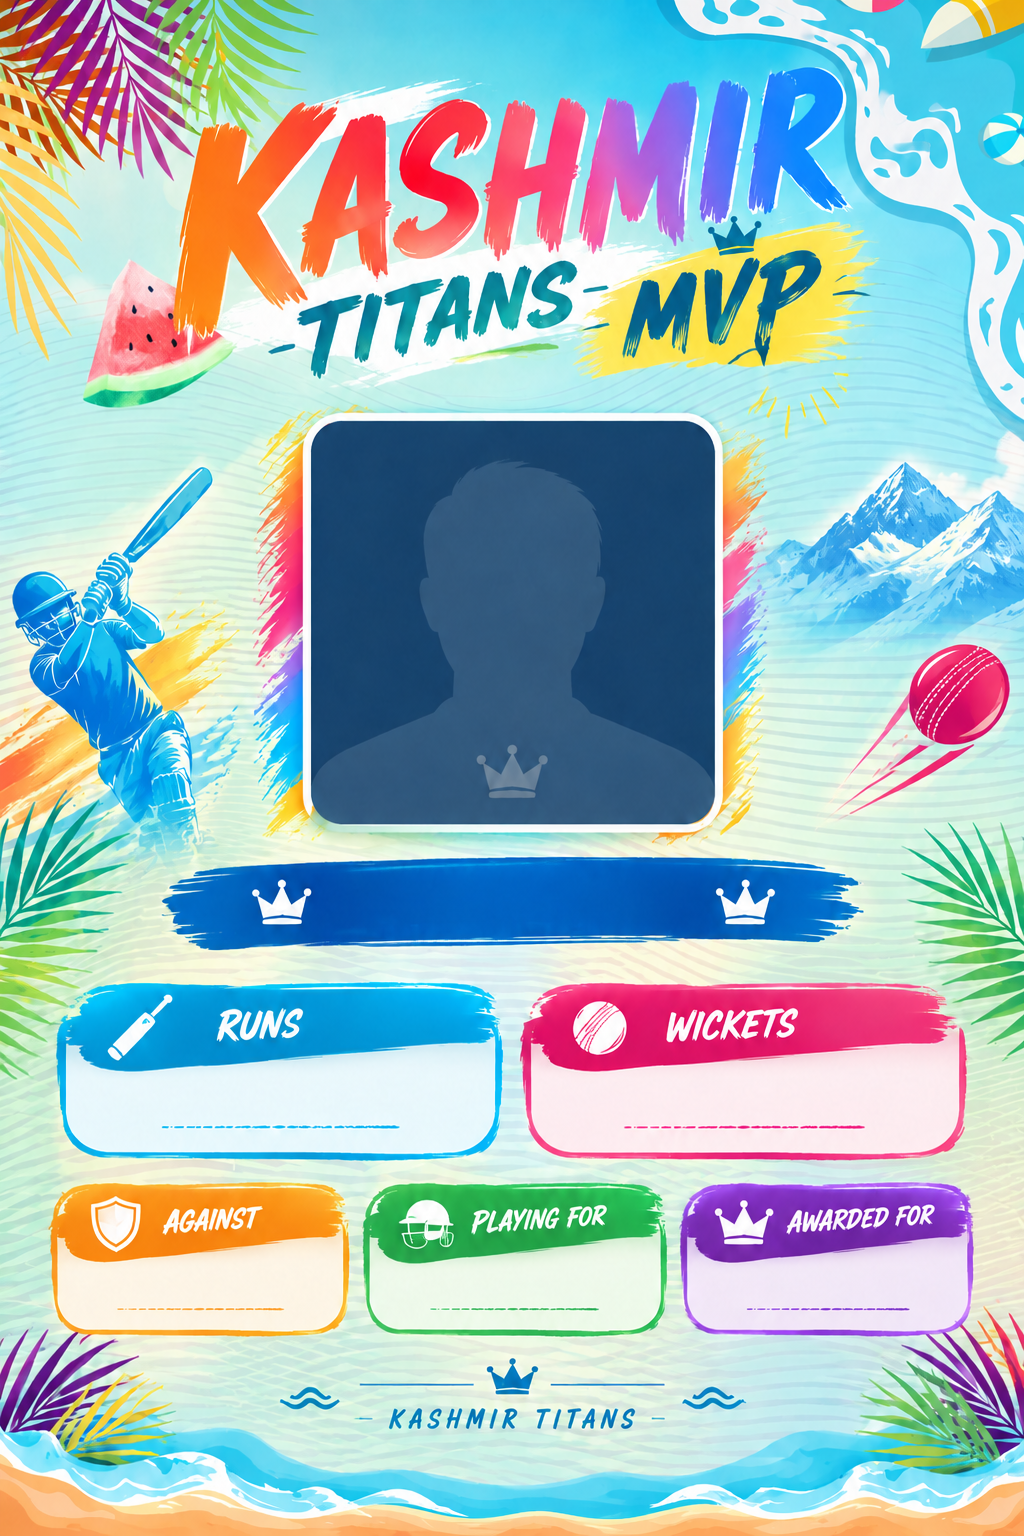
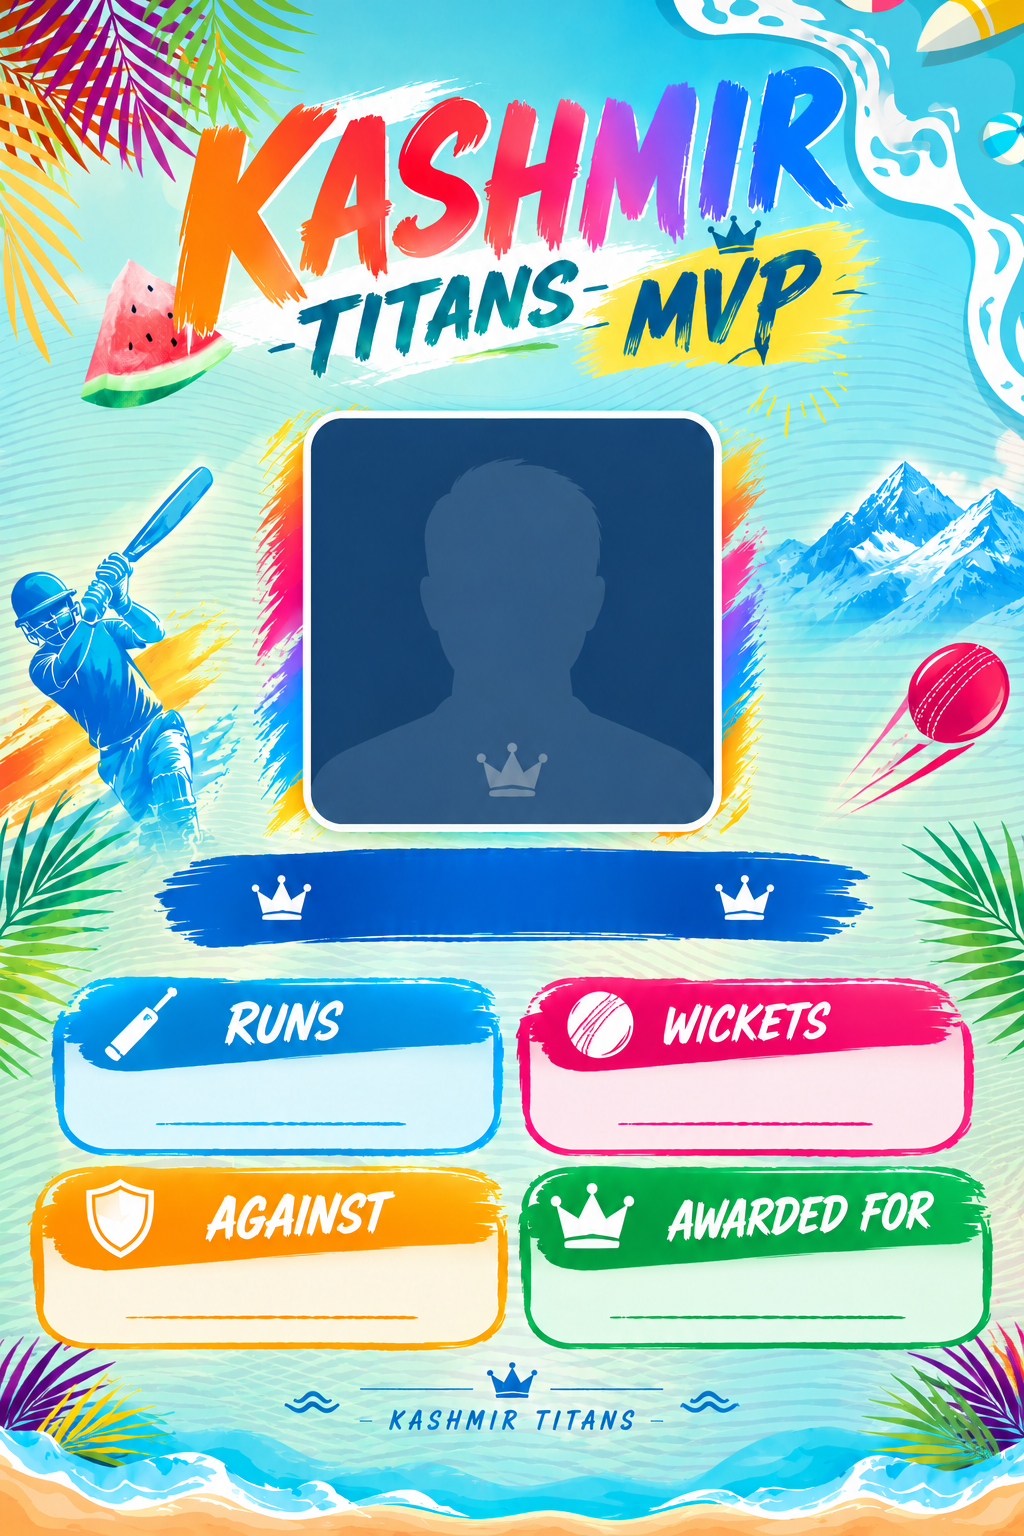
a

diff --git a/cogs/mvp.py b/cogs/mvp.py
@@ -14,25 +14,31 @@ from PIL import Image, ImageDraw, ImageFont, ImageOps
 BACKGROUND_PATH = Path(__file__).with_name("mvp_background.png")
 
 # Coordinates are designed for the supplied 1024 x 1536 Kashmir Titans banner.
-NAME_BOX = (170, 864, 854, 946)
-AVATAR_BOX = (405, 456, 619, 670)
+# Coordinates for the updated tropical MVP background (1024 x 1536).
+NAME_BOX = (300, 855, 724, 895)
+PLAYING_FOR_BOX = (300, 895, 724, 931)
+AVATAR_BOX = (305, 420, 719, 830)
+# Values sit on the template's dotted underline in each information box.
 VALUE_BOXES = {
-    "runs": (80, 1070, 480, 1147),
-    "wickets": (542, 1070, 942, 1147),
-    "against": (76, 1240, 327, 1320),
-    "playing for": (391, 1240, 640, 1320),
-    "awarded for": (704, 1240, 953, 1320),
+    "runs": (65, 1080, 492, 1140),
+    "wickets": (530, 1080, 959, 1140),
+    "against": (45, 1270, 500, 1340),
+    "awarded for": (520, 1270, 979, 1340),
 }
 
 
 def _font(size: int, bold: bool = True) -> ImageFont.FreeTypeFont | ImageFont.ImageFont:
-    candidates = []
-    if os.name == "nt":
-        candidates += [r"C:\Windows\Fonts\arialbd.ttf" if bold else r"C:\Windows\Fonts\arial.ttf"]
-    candidates += [
-        "/usr/share/fonts/truetype/dejavu/DejaVuSans-Bold.ttf" if bold else "/usr/share/fonts/truetype/dejavu/DejaVuSans.ttf",
-        "/usr/share/fonts/truetype/liberation2/LiberationSans-Bold.ttf" if bold else "/usr/share/fonts/truetype/liberation2/LiberationSans-Regular.ttf",
+    # Heavy italic lettering is the closest available match to the poster's brush-style labels.
+    candidates = [
+        "/usr/share/fonts/truetype/lato/Lato-HeavyItalic.ttf",
+        "/usr/share/fonts/truetype/lato/Lato-BoldItalic.ttf",
+        "/usr/share/fonts/truetype/dejavu/DejaVuSans-BoldOblique.ttf",
+    ] if bold else [
+        "/usr/share/fonts/truetype/lato/Lato-MediumItalic.ttf",
+        "/usr/share/fonts/truetype/dejavu/DejaVuSans-Oblique.ttf",
     ]
+    if os.name == "nt":
+        candidates += [r"C:\Windows\Fonts\arialbi.ttf" if bold else r"C:\Windows\Fonts\ariali.ttf"]
     for path in candidates:
         try:
             return ImageFont.truetype(path, size=size)
@@ -52,9 +58,11 @@ def _fit_font(draw: ImageDraw.ImageDraw, text: str, max_width: int, max_height: 
 
 
 def _draw_centered(draw: ImageDraw.ImageDraw, box: tuple[int, int, int, int], text: str,
-                   color: tuple[int, int, int], start_size: int, min_size: int = 16) -> None:
+                   color: tuple[int, int, int], start_size: int, min_size: int = 16, bold: bool = True) -> None:
     x1, y1, x2, y2 = box
     font = _fit_font(draw, text, x2 - x1 - 22, y2 - y1 - 8, start_size, min_size)
+    # Use the matching italic family for category values as well.
+    font = _font(getattr(font, "size", start_size), bold=bold)
     bbox = draw.textbbox((0, 0), text, font=font, stroke_width=1)
     w, h = bbox[2] - bbox[0], bbox[3] - bbox[1]
     x = x1 + ((x2 - x1) - w) / 2 - bbox[0]
@@ -119,20 +127,23 @@ class MVP(commands.Cog):
                 return member
         return None
 
-    async def _make_banner(self, name: str, values: dict[str, str], member: Optional[discord.Member]) -> io.BytesIO:
+    async def _make_banner(self, name: str, values: dict[str, str], member: Optional[discord.Member], custom_avatar: Optional[bytes] = None) -> io.BytesIO:
         if not BACKGROUND_PATH.exists():
             raise FileNotFoundError(f"Background image not found: {BACKGROUND_PATH}")
 
         image = Image.open(BACKGROUND_PATH).convert("RGBA")
         draw = ImageDraw.Draw(image, "RGBA")
 
-        # Place the player's name in the blue name strip.
-        _draw_centered(draw, NAME_BOX, name, (255, 255, 255), 48, 22)
+        # Player name and playing-for text share the center of the blue strip.
+        _draw_centered(draw, NAME_BOX, name, (255, 255, 255), 34, 18)
+        _draw_centered(draw, PLAYING_FOR_BOX, f"PLAYING FOR: {values['playing for']}", (255, 255, 255), 19, 12)
 
-        # Overlay a rounded avatar crop in the central portrait area when a Discord member was found.
-        if member is not None:
+        # Prefer the image sent in the final prompt; otherwise use the matched Discord member avatar.
+        if custom_avatar is not None or member is not None:
             try:
-                avatar_bytes = await member.display_avatar.replace(size=256, static_format="png").read()
+                avatar_bytes = custom_avatar
+                if avatar_bytes is None and member is not None:
+                    avatar_bytes = await member.display_avatar.replace(size=256, static_format="png").read()
                 avatar = Image.open(io.BytesIO(avatar_bytes)).convert("RGBA")
                 x1, y1, x2, y2 = AVATAR_BOX
                 target_size = (x2 - x1, y2 - y1)
@@ -151,11 +162,10 @@ class MVP(commands.Cog):
             "runs": (0, 126, 190),
             "wickets": (222, 26, 91),
             "against": (209, 112, 0),
-            "playing for": (13, 145, 69),
-            "awarded for": (112, 35, 174),
+            "awarded for": (13, 145, 69),
         }
-        for key, value in values.items():
-            _draw_centered(draw, VALUE_BOXES[key], value, colors[key], 38 if key in ("runs", "wickets") else 28, 15)
+        for key in ("runs", "wickets", "against", "awarded for"):
+            _draw_centered(draw, VALUE_BOXES[key], values[key], colors[key], 34 if key in ("runs", "wickets") else 30, 14)
 
         output = io.BytesIO()
         image.save(output, format="PNG", optimize=True)
@@ -188,9 +198,33 @@ class MVP(commands.Cog):
                 return
             values[key] = answer
 
+        await ctx.send("**MVP setup — 7/7**\nUpload the avatar image you want to use as an attachment, or type `skip` to use the matched Discord member's avatar/default silhouette.\n*Type `cancel` to stop.*")
+        def avatar_check(message: discord.Message) -> bool:
+            return message.author.id == ctx.author.id and message.channel.id == ctx.channel.id and (bool(message.attachments) or message.content.strip().lower() in {"skip", "cancel"})
+        try:
+            avatar_message = await self.bot.wait_for("message", check=avatar_check, timeout=120)
+        except TimeoutError:
+            await ctx.send("MVP setup timed out. Run `+setmvp` again.")
+            return
+        if avatar_message.content.strip().lower() == "cancel":
+            await ctx.send("MVP setup cancelled.")
+            return
+        custom_avatar = None
+        if avatar_message.content.strip().lower() != "skip":
+            attachment = next((a for a in avatar_message.attachments if a.content_type and a.content_type.startswith("image/")), None)
+            if attachment is None:
+                await ctx.send("Please upload an image attachment. Run `+setmvp` again.")
+                return
+            try:
+                custom_avatar = await attachment.read()
+                Image.open(io.BytesIO(custom_avatar)).verify()
+            except Exception:
+                await ctx.send("That avatar file could not be opened as an image. Run `+setmvp` again.")
+                return
+
         member = self._find_member(ctx.guild, name)
         try:
-            banner = await self._make_banner(name, values, member)
+            banner = await self._make_banner(name, values, member, custom_avatar)
         except FileNotFoundError as exc:
             await ctx.send(f"Couldn't find the MVP background. Put `mvp_background.png` beside `mvp.py` in the `cogs` folder.\n`{exc}`")
             return
